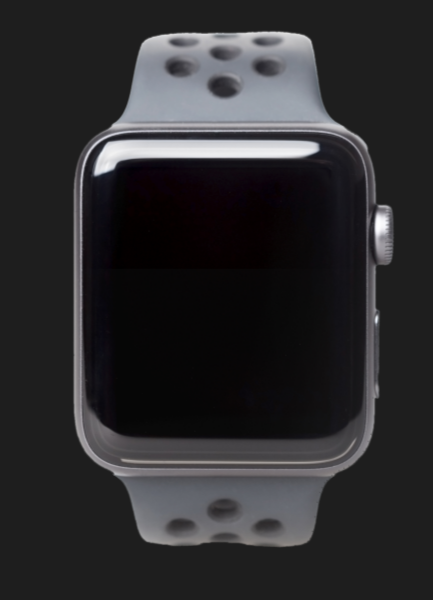
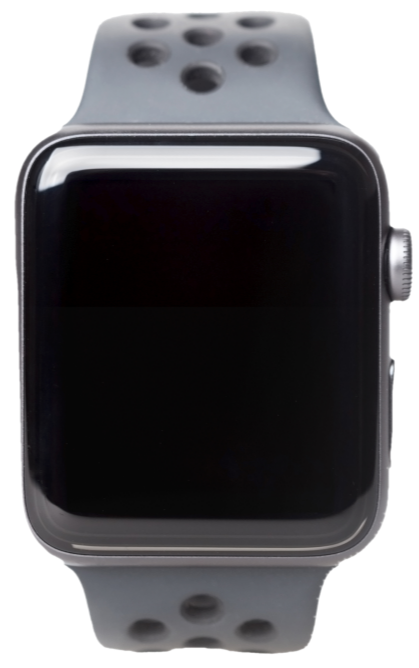
main, recommend design

diff --git a/client/react/src/pages/rec/RecAppDes.jsx b/client/react/src/pages/rec/RecAppDes.jsx
@@ -1,0 +1,57 @@
+import React from 'react'
+import watchLogin from '../../assets/img/watchlogin.png'
+import watchHeartRate from '../../assets/img/watchheartrate.png'
+import { Swiper, SwiperSlide } from 'swiper/react';
+import { Link } from "react-router-dom";
+
+const RecAppDes = () => {
+
+  return (
+    <div className='bg-custom-blue text-custom-recappdes p-3 h-full '>
+        <br/><br/><br/>
+        {/* 갤럭시 워치에 대한 앱 설명 */}
+        <div className='mt-3'>
+          <ul>
+            <li className='text-left indent-1 text-xl font-semibold tracking-tighter'>• 갤럭시 워치의 경우</li>
+            <ol className='text-left indent-3 tracking-tighter mt-3 leading-loose'>
+                <li>1. 갤럭시 워치에서 구글 스토어를 실행합니다.</li>
+                <li>2. 검색창에 Blueme를 검색하고 다운로드 받습니다.</li>
+                <li>3. 앱 설치가 완료되면 자사 로그인을 진행합니다.</li>
+                <li>4. 데이터가 워치에 보여지면 전송 버튼을 클릭합니다.</li>
+            </ol>
+          </ul>
+        </div>
+
+        <Swiper slidesPerView={2} className='mt-10'>
+            <SwiperSlide >
+                <img src={watchLogin}
+                alt='워치 이미지'
+                class="object-cover w-[180px] h-[230px] "/>
+            </SwiperSlide> 
+            <SwiperSlide>
+                <img src={watchHeartRate}
+                alt='워치 이미지'
+                class="object-cover w-[180px] h-[225px] "/>
+            </SwiperSlide> 
+        </Swiper>
+        
+        {/* 샤오미 워치에 대한 앱 설명 */}
+        <div className='mt-8'>
+        <ul>
+            <li className='text-left indent-1 text-xl font-semibold tracking-tighter'>• 샤오미 미워치의 경우</li>
+            <ol className='text-left indent-3 tracking-tighter mt-3 leading-loose'>
+                <li>1. 미워치에서 샤오미웨어를 실행합니다.</li>
+                <li>2. 검색창에 Blueme를 검색하고 다운로드 받습니다.</li>
+                <li>3. 앱 설치가 완료되면 자사 로그인을 진행합니다.</li>
+                <li>4. 데이터가 워치에 보여지면 전송 버튼을 클릭합니다.</li>
+            </ol>
+          </ul>     
+        </div>
+        <div className='text-right p-3 mt-5'>
+            <Link to='/PlaylistRename'><span>SKIP</span></Link>
+        </div>
+    </div>
+  )
+}
+
+export default RecAppDes

diff --git a/client/react/src/pages/rec/PlaylistRename.jsx b/client/react/src/pages/rec/PlaylistRename.jsx
@@ -1,0 +1,55 @@
+import React from 'react'
+
+const PlaylistRename = () => {
+    
+    // 현재 날짜와 시간 구하기
+    const todayTime = () => {
+        let now = new Date();
+        let todayYear = now.getFullYear();
+        let todayMonth = now.getMonth()+1;
+        let todayDate = now.getDate();
+        let hours = now.getHours();
+        let minutes = now.getMinutes();
+
+        return todayYear + '년' + todayMonth + '월' + todayDate + '일' + hours + '시' + minutes +'분 당신을 위한 음악'
+    }
+
+  return (
+    <div className='bg-custom-blue text-custom-white p-3 h-full'>
+    <br/><br/><br/>
+    {/* 추천 리스트 제목 */}
+      <div className='mt-52 text-center'>
+          <h1 className='text-xl font-semibold tracking-tight'>추천 플레이리스트의 제목을 정해주세요.</h1>
+      </div>
+
+    {/* 제목에 기본값으로 현재 날짜와 시간 넣어주기 */}
+      <div className='mt-12'>
+      <input
+        type="email"
+        className="focus:border-custom-white pl-2 w-full border border-soild rounded-lg bg-custom-blue text-custom-white peer min-h-auto bg-transparent py-[0.32rem] leading-[2.35] outline-none transition-all duration-200 ease-linear motion-reduce:transition-none dark:text-neutral-200 "
+        placeholder= {todayTime()}
+      />
+      </div>
+      {/* 저장과 취소 버튼 */}
+      <div className='flex justify-end space-x-2'>
+        <div className="h-9 w-12 mt-5 border-2 border-soild border-#FDFDFD] 
+        rounded-lg bg-custom-blue text-custom-white text-sm text-center peer bg-transparent leading-[2.15] outline-none ease-linear">
+            <button>저장</button>
+        </div>
+        <div className="h-9 w-12 mt-5 border-2 border-soild border-#FDFDFD] 
+        rounded-lg bg-custom-blue text-custom-white text-sm text-center peer bg-transparent leading-[2.15] outline-none ease-linear">
+            <button>취소</button>
+        </div>
+      </div>
+      
+
+
+
+
+      
+
+  </div>
+  )
+}
+
+export default PlaylistRename

diff --git a/client/react/src/pages/main/Main.jsx b/client/react/src/pages/main/Main.jsx
@@ -1,0 +1,46 @@
+import React, { useEffect } from 'react';
+import SavedPlaylist from '../../components/Library/SavedPlaylist';
+import BeforeRegistration from './BeforeRegistration';
+import LikedList from '../../components/Library/LikedList';
+import { Swiper, SwiperSlide } from 'swiper/react';
+import MusicDummy from '../../dummy/MusicDummy.json';
+import SingleMusic from '../../components/Library/SingleMusic';
+import { Link } from "react-router-dom";
+import RecPlayList from '../rec/RecPlayList';
+import axios from 'axios';
+
+
+
+const Main = () => {
+
+ useEffect(()=>{
+  
+ })
+
+  return (
+    <div className='bg-custom-blue text-custom-white p-3 '>
+        <br/><br/><br/>
+        {/* ChatGPT가 추천해주는 플레이리스트 */}
+        <div>
+            <h1 className='text-left indent-1 text-xl font-semibold tracking-tighter mt-5'>Chat GPT가 추천해주는 플레이리스트</h1>
+            <Link to='/RecAppDes'><BeforeRegistration/></Link>
+            {/* <Link to=''><RecPlayList/></Link> */}
+        </div>
+        {/* 테마별 플레이리스트 */}
+        <div>
+            <h1 className='text-left indent-1 text-xl font-semibold tracking-tighter mt-8'>테마별 플레이리스트</h1>
+            <Link to='Playlist'><RecPlayList/></Link>
+        </div>
+        {/* 최근에 재생한 목록 */}
+        <h1 className='text-left indent-1 text-xl font-semibold tracking-tighter mt-8'>최근에 재생한 목록</h1>  
+          {MusicDummy.map((item) => (
+            <section key={item.id}>
+              <SingleMusic key={item.id} item={item} />
+            </section>
+          ))}
+
+    </div>
+  )
+}
+
+export default Main

diff --git a/client/react/src/App.js b/client/react/src/App.js
@@ -1,7 +1,7 @@
 import React, { useEffect } from 'react';
 import { BrowserRouter as Router, Routes, Route } from 'react-router-dom';
 
-import Main from './pages/Main';
+import Main from './pages/main/Main';
 import Join from './pages/join/Join';
 import Login from './pages/Login';
 import Footer from './components/Layout/Footer';
@@ -19,6 +19,10 @@ import './assets/fonts/font.ttf';
 import AddMusicPage from './pages/admin/AddMusicPage';
 import Playlist from './pages/Playlist';
 import SelectGenre from "./pages/join/SelectGenre";
+// 유영 추천 앱 설명
+import RecAppDes from './pages/rec/RecAppDes';
+import PlaylistRename from './pages/rec/PlaylistRename';
+//유영 끝
 
 const App = () => {
     return (
@@ -45,6 +49,10 @@ const App = () => {
                     <Route path="/MusicPlayer" element={<MusicPlayer />} />
                     <Route path="/Playlist" element={<Playlist />} />
                     <Route path="/SelectGenre" element={<SelectGenre />} />
+                    {/* 유영 추천 앱 설명 */}
+                    <Route path='/RecAppDes' element={<RecAppDes/>}/>
+                    <Route path='/PlaylistRename' element={<PlaylistRename/>}/>
+                    {/* 유영 끝 */}
                 </Routes>
                 <Footer />
             </div>

diff --git a/client/react/src/pages/rec/RecPlayList.jsx b/client/react/src/pages/rec/RecPlayList.jsx
@@ -1,0 +1,28 @@
+import React from 'react';
+import { Swiper, SwiperSlide } from 'swiper/react';
+import 'swiper/css';
+import dummy from '../../dummy/MusicDummy.json';
+
+const RecPlayList = () => {
+    return (
+        <div className='flex mt-5'>
+        <Swiper spaceBetween={1} slidesPerView={2.5}>
+            {dummy.map((item) => {
+                return (
+                    <SwiperSlide key={item.id}>
+                        <div className="flex flex-col ml-2 mr-2 w-50 ">
+                            {/* 1. 앨범 이미지 */}
+                            <img src={item.coverImage} alt="album cover" className="w-[180px] h-auto rounded-lg" />
+                            {/* 2. 제목/ 아티스트 */}
+                            <span className="tracking-tighter text-sm text-center mt-2">{item.title}</span>
+                            <span className="tracking-tighter text-sm text-center">{item.artist}</span>
+                        </div>
+                    </SwiperSlide>
+                );
+            })}
+        </Swiper>
+        </div>
+    );
+};
+
+export default RecPlayList;

diff --git a/client/react/src/pages/main/BeforeRegistration.jsx b/client/react/src/pages/main/BeforeRegistration.jsx
@@ -1,0 +1,22 @@
+import React from 'react'
+import watch from '../../assets/img/watch.png'
+import { Link } from 'react-router-dom'
+
+const MainWatch = () => {
+  return (
+    <div>
+        <div className='flex justify-center items-center p-10'>
+          <img src={watch}
+          alt='워치 이미지'
+          class="object-cover blur-sm w-[150px] h-[210px] "/>
+          <div className='absolute'>
+            <Link to='/RecAppDes'>
+              <button className='text-xl text-custom-recappdes font-semibold tracking-tighter'>스마트 워치를 등록해주세요.</button>
+            </Link>
+          </div>
+            </div>    
+    </div>
+  )
+}
+
+export default MainWatch

diff --git a/client/react/tailwind.config.js b/client/react/tailwind.config.js
@@ -11,6 +11,9 @@ module.exports = {
             'custom-gray': '#A0A0A0',
             'custom-darkgray': 'rgba(217, 217, 217, 0.10)',
             'custom-lightpurple': '#C0CBE7',
+            // 유영 글씨 색 추가
+            'custom-recappdes' : '#BDCAE8',
+            //유영 끝
         },
     },
     variants: {
